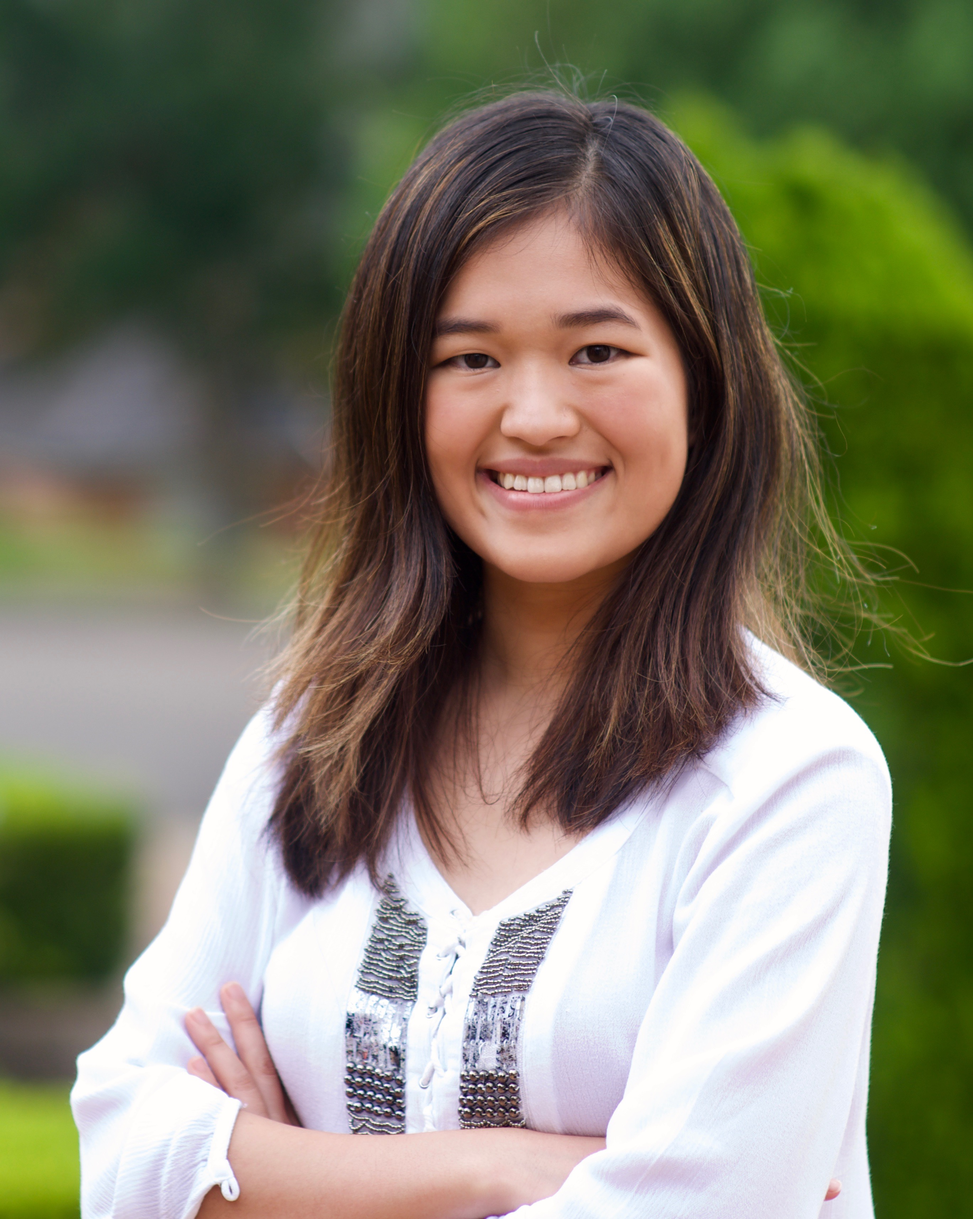
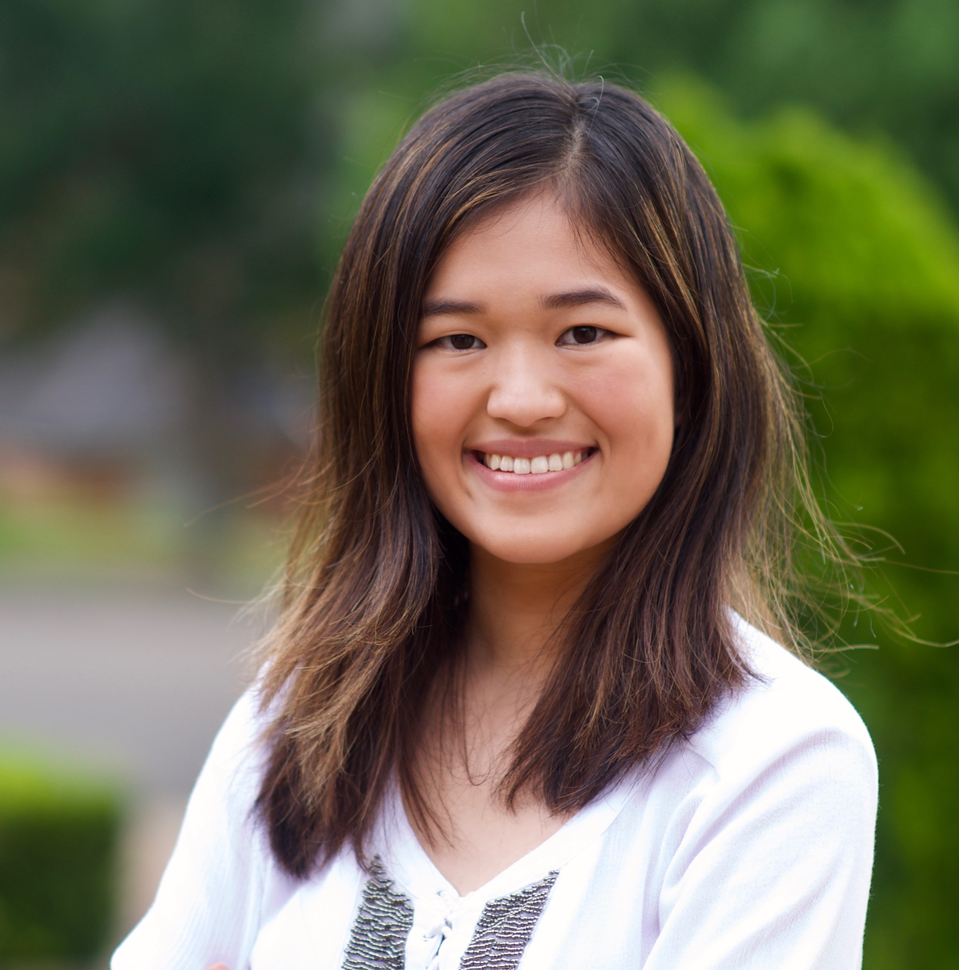
about us page complete

diff --git a/index.html b/index.html
@@ -13,8 +13,6 @@
     <!-- Place favicon.ico in the root directory -->
     <link rel="apple-touch-icon" href="images/apple-touch-icon.png">
     <link rel="shortcut icon" type="image/ico" href="images/favicon.ico" />
-    <!-- Bootstrap requirements -->
-    <link rel="stylesheet" href="https://maxcdn.bootstrapcdn.com/bootstrap/4.0.0/css/bootstrap.min.css" integrity="sha384-Gn5384xqQ1aoWXA+058RXPxPg6fy4IWvTNh0E263XmFcJlSAwiGgFAW/dAiS6JXm" crossorigin="anonymous">
     <!-- Plugin-CSS -->
     <link rel="stylesheet" href="css/bootstrap.min.css">
     <link rel="stylesheet" href="css/owl.carousel.min.css">
@@ -25,7 +23,9 @@
     <link rel="stylesheet" href="css/normalize.css">
     <link rel="stylesheet" href="style.css">
     <link rel="stylesheet" href="css/responsive.css">
+    <link rel="stylesheet" href="css/custom.css">
     <script src="js/vendor/modernizr-2.8.3.min.js"></script>
+    <!-- Custom stylesheet -->
     <!--[if lt IE 9]>
         <script src="//oss.maxcdn.com/html5shiv/3.7.2/html5shiv.min.js"></script>
         <script src="//oss.maxcdn.com/respond/1.4.2/respond.min.js"></script>
@@ -584,7 +584,47 @@
     <footer class="footer-area" id="contact_page">
         <div class="section-padding">
             <div class="container">
+                <div class="col-xs-12">
+                    <div class="page-title text-center">
+                        <h5 class="title">The Team</h5>
+                        <h3 class="dark-color">About Us</h3>
+                        <div class="space-60"></div>
+                    </div>
+                </div>
+            </div>
+            <div class="container" id="profile">
                 <div class="row">
+                    <div class="col-xs-5">
+                        <a href="https://www.linkedin.com/in/ashleywong99" target="_blank"> 
+                            <img src="./images/ashley-profile.jpg" class="img-rounded profile-pic" alt="Ashley profile picture">
+                        </a>
+                        <div class="space-30 hidden visible-xs"></div>
+                        <div class="row">
+                            <h4 class="name">Ashley Wong</h4>
+                            <div class="profile-desc">
+                                <p>Computer Science and Linguistics, citation in Mandarin Chinese</p>
+                                <p>Harvard University</p>
+                            </div>
+                        </div>
+                    </div>
+                    <div class="col-xs-2"></div>
+                    <div class="col-xs-5">
+                        <a href="https://www.linkedin.com/in/mia-johansson-825354130/" target="_blank"> 
+                            <img src="./images/mia-profile.png" class="img-rounded profile-pic" alt="Mia profile picture">
+                        </a>
+                        <div class="space-30 hidden visible-xs"></div>
+                        <div class="row">
+                            <h4 class="name">Mia Johansson</h4>
+                            <div class="profile-desc">
+                                <p>Computer Science, citation in Swedish</p>
+                                <p>Harvard University</p>
+                            </div>
+                        </div>
+                    </div>
+                </div>
+                </div>
+                
+                <!-- <div class="row">
                     <div class="col-xs-12">
                         <div class="page-title text-center">
                             <h5 class="title">The Team</h5>
@@ -592,10 +632,6 @@
                             <div class="space-60"></div>
                         </div>
                     </div>
-                </div>
-                <div class="row">
-                <img src="./images/ashley-profile.jpg" class="rounded float-left" alt="Ashley Wong profile picture">
-                <img src="./images/ashley-profile.jpg" class="rounded float-right" alt="Ashley Wong profile picture">
                 </div>
                 <div class="row">
                     <div class="col-xs-12 col-sm-4">
@@ -623,8 +659,8 @@
                             <p>yourmail@gmail.com <br /> backpiper.com@gmail.com
                             </p>
                         </div>
-                    </div>
-                </div>
+                    </div> 
+                </div> -->
             </div>
         </div>
         <!-- Footer-Bootom -->
@@ -656,9 +692,9 @@
     </footer>
     <!-- Footer-Area-End -->
     <!-- Bootstrap requirements -->
-    <script src="https://code.jquery.com/jquery-3.2.1.slim.min.js" integrity="sha384-KJ3o2DKtIkvYIK3UENzmM7KCkRr/rE9/Qpg6aAZGJwFDMVNA/GpGFF93hXpG5KkN" crossorigin="anonymous"></script>
+<!--     <script src="https://code.jquery.com/jquery-3.2.1.slim.min.js" integrity="sha384-KJ3o2DKtIkvYIK3UENzmM7KCkRr/rE9/Qpg6aAZGJwFDMVNA/GpGFF93hXpG5KkN" crossorigin="anonymous"></script>
     <script src="https://cdnjs.cloudflare.com/ajax/libs/popper.js/1.12.9/umd/popper.min.js" integrity="sha384-ApNbgh9B+Y1QKtv3Rn7W3mgPxhU9K/ScQsAP7hUibX39j7fakFPskvXusvfa0b4Q" crossorigin="anonymous"></script>
-    <script src="https://maxcdn.bootstrapcdn.com/bootstrap/4.0.0/js/bootstrap.min.js" integrity="sha384-JZR6Spejh4U02d8jOt6vLEHfe/JQGiRRSQQxSfFWpi1MquVdAyjUar5+76PVCmYl" crossorigin="anonymous"></script>
+    <script src="https://maxcdn.bootstrapcdn.com/bootstrap/4.0.0/js/bootstrap.min.js" integrity="sha384-JZR6Spejh4U02d8jOt6vLEHfe/JQGiRRSQQxSfFWpi1MquVdAyjUar5+76PVCmYl" crossorigin="anonymous"></script> -->
     <!--Vendor-JS-->
     <script src="js/vendor/jquery-1.12.4.min.js"></script>
     <script src="js/vendor/jquery-ui.js"></script>

diff --git a/style.css b/style.css
@@ -1014,6 +1014,7 @@ input:-webkit-autofill:focus {
     color: #5e88fc;
 }
 
+
 /*-- 19. ScrollUp-Button --*/
 
 #scrollUp {
